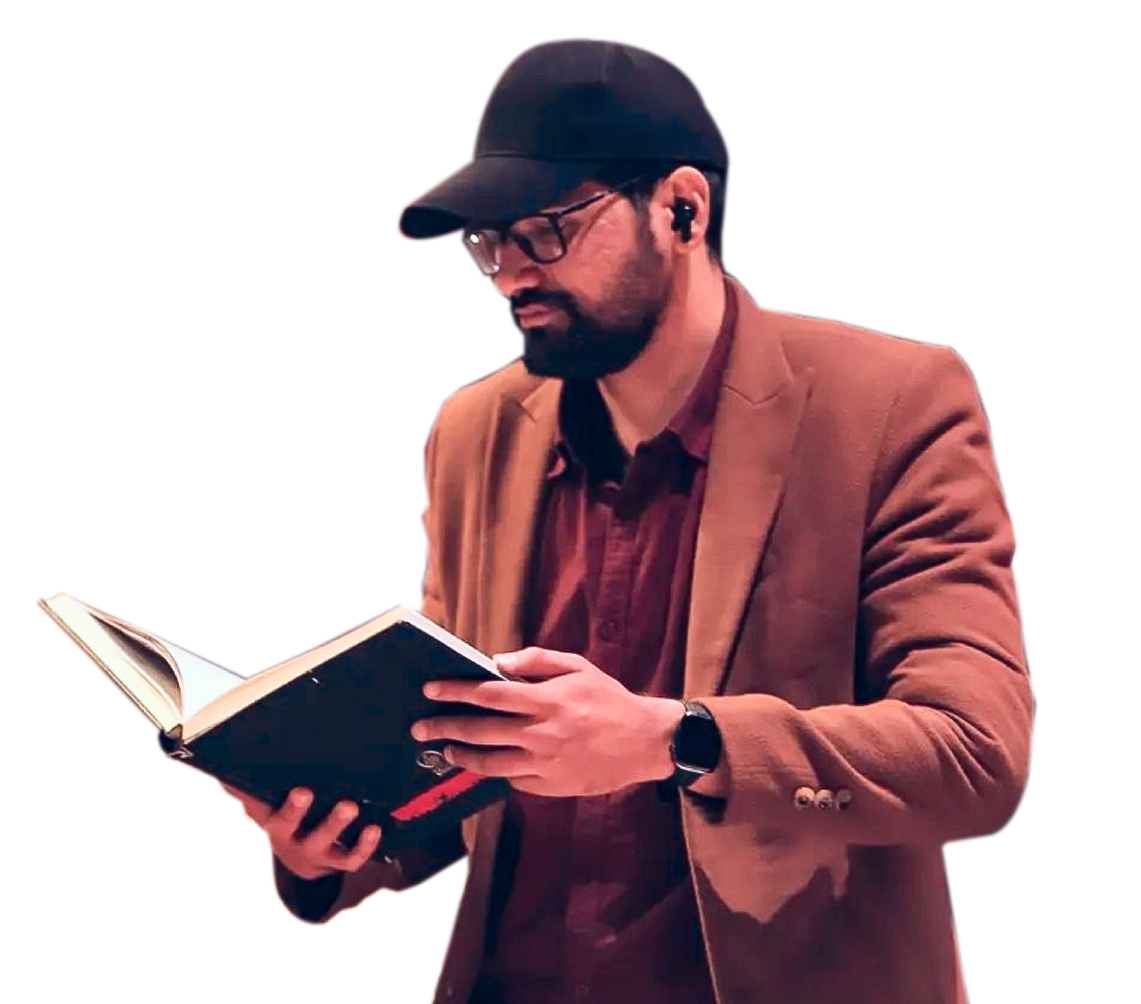
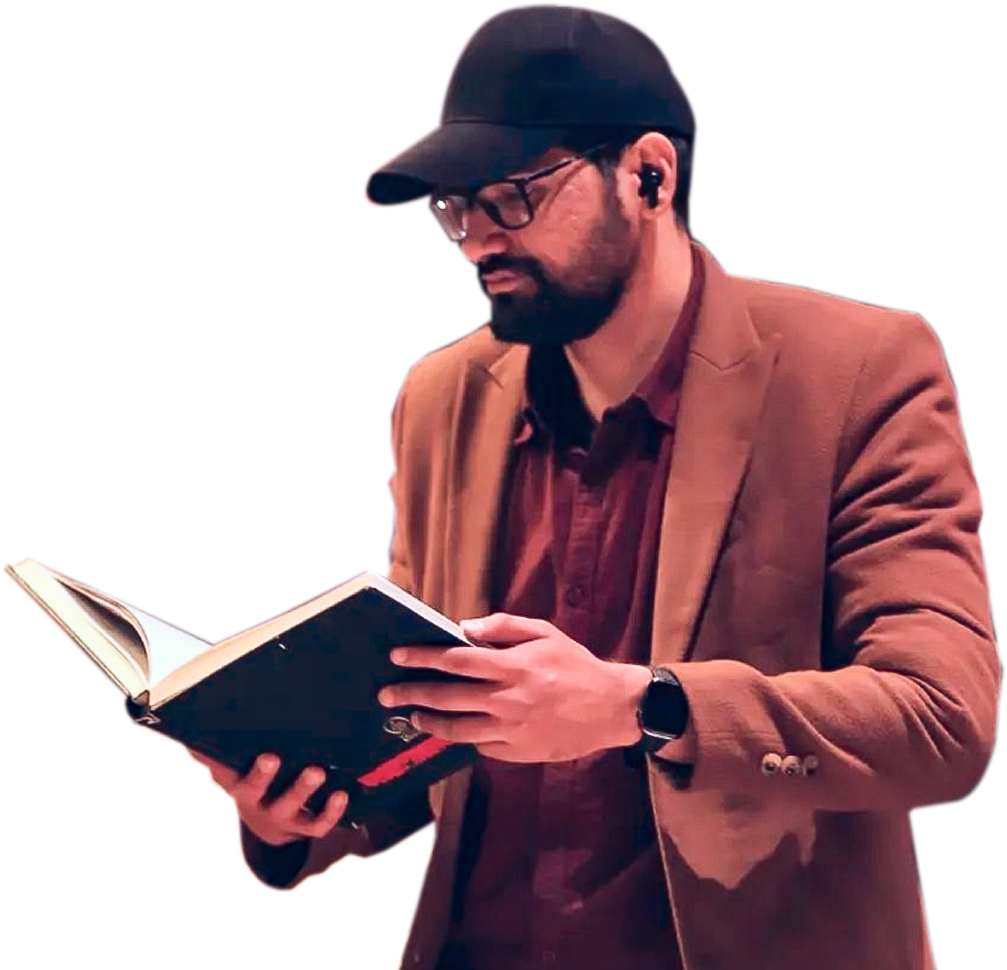
Changes on 1440

diff --git a/Dastan-e-haider-frontend/src/styles/homeBanner.scss b/Dastan-e-haider-frontend/src/styles/homeBanner.scss
@@ -8,7 +8,7 @@ $lightblue: #6F8695;
     background-position: center; 
     background-color: #05204B; 
     width: 100%; 
-    height: 900px; 
+    height: 100vh; 
     position: relative;
   }
   .active{
@@ -136,7 +136,7 @@ nav .menu .cross-icon {
     justify-content: space-between;  /* Space between logo, ayat, and image */
     align-items: center;             /* Vertically center items */
     width: 100%;                /* Full width */
-    margin-top: 1rem;
+    margin-top: -4rem;
 }
 
 .home-logo img {
@@ -148,7 +148,7 @@ nav .menu .cross-icon {
 }
 
 .banner-img img {
-    width: 538px;
+    width: 700px;
     position: absolute;
     bottom: 0;
     right: 0;
@@ -365,18 +365,6 @@ nav .menu .cross-icon {
 /* Large devices (laptops/desktops, 1024px - 1440px) */
 @media only screen and (min-width: 1024px) and (max-width: 1440px) {
     .home-logo img {
-        width: 60%;
-        max-width: 400px;
-    }
-    .banner-ayat p {
-        font-size: 40px;
-    }
-}
-
-/* Media query for screen width 1024px */
-@media only screen and (min-width: 1440px) and (max-width: 2560px) {
-
-    .home-logo img {
         width: 100%;
         margin-left: 8%;
         max-width: 600px;
@@ -386,7 +374,7 @@ nav .menu .cross-icon {
         margin-right: 23rem;
     }
     .banner-ayat p {
-        font-size: 50px;                /* Reduce the font size for smaller screens */
+        font-size: 70px;                /* Reduce the font size for smaller screens */
         line-height: 1.3;               /* Adjust line height */
     }
 
@@ -403,6 +391,37 @@ nav .menu .cross-icon {
     animation: showCircle 1s ease; /* Apply the animation */
     }
 }
+
+/* Media query for screen width 1024px */
+// @media only screen and (min-width: 1440px) and (max-width: 2560px) {
+
+//     .home-logo img {
+//         width: 100%;
+//         margin-left: 8%;
+//         max-width: 600px;
+//         animation: homeLogo 2s ease-in-out;
+//     }
+//     .banner-ayat {
+//         margin-right: 23rem;
+//     }
+//     .banner-ayat p {
+//         font-size: 70px;                /* Reduce the font size for smaller screens */
+//         line-height: 1.3;               /* Adjust line height */
+//     }
+
+//     .banner-ayat span {
+//         font-size: 18px;                /* Reduce the translation font size */
+//         padding: 0 1rem;                /* Keep the padding for spacing */
+//     }
+
+//     .banner-img img {
+//         width: 600px;
+//     position: absolute;
+//     bottom: 0;
+//     right: 0;
+//     animation: showCircle 1s ease; /* Apply the animation */
+//     }
+// }
 
 
 
